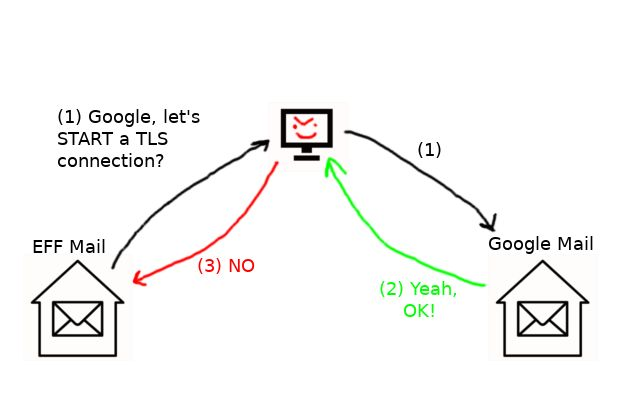
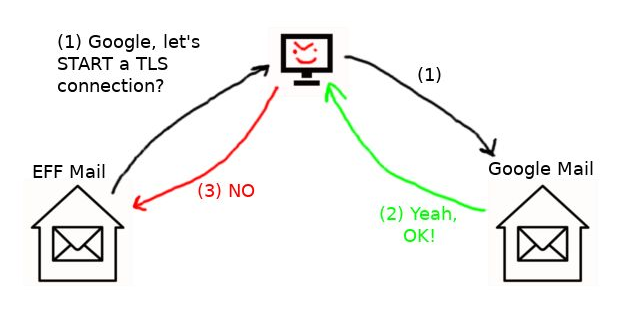
FAQ page cleanup (#200)
* Convert all FAQs to markdown

* Fix typos in FAQ

* Crop whitespace from FAQ images

* Tweak list style

* Fix typo

diff --git a/sass/base.scss b/sass/base.scss
@@ -123,7 +123,7 @@ ol {
   margin-left: 3em;
   padding: 0 0 2rem;
   li {
-    min-height: 3rem;
+    margin-bottom: 1rem;
     padding-left: 0.5rem;
     position: relative;
     &:before {

diff --git a/content/faq/insecure.md b/content/faq/insecure.md
@@ -8,9 +8,9 @@ level: learn
 
 As mentioned in the <a href="#how" class="how">previous section</a>, your email goes through multiple hops! Each of these hops have to be secure and authenticated for your email to reliably be delivered securely.
 
-<img src="/images/how-email-insecure.png" alt="how is email insecure diagram">
+![how is email insecure diagram](/images/how-email-insecure.png)
 
-<h3>Passive monitoring</h3>
+### Passive monitoring
 
 Typically, Internet traffic between two computers is secured using [Transport Layer Security](https://ssd.eff.org/pt-br/taxonomy/term/361). Since your email goes through multiple hops, if any of the hops it goes through are insecure, then your email is visible to anyone on the same network. This is referred to as “passive monitoring.” For example, if hop (1) is unencrypted, [anyone on your WiFi network](https://www.eff.org/deeplinks/2010/10/message-firesheep-baaaad-websites-implement) can read the email your sending!
 
@@ -18,26 +18,28 @@ For hops (1) and (3), you’ll want to make sure the connection between your ema
 
 For hop (2), you’ll want to make sure both your mailserver and the destination mailserver support “STARTTLS,” or TLS for email — you can use [our STARTTLS checker](/) to do this!
 
-<h3>Active monitoring</h3>
-<img src="/images/active-monitoring.png" alt="active monitoring diagram">
+### Active monitoring
 
-Although we depicted each individual connection as a single “hop,” beneath the surface, there are many computers along the path of each “hop” that help you get to your final destination. One of these computers on the path between you and <em>gmail.com</em> could lie to you and impersonate gmail.com. This is referred to as “active monitoring” — where an attacker on the path can impersonate your destination, and then monitor the email you’re sending.
+![active monitoring diagram](/images/active-monitoring.png)
 
-In order to verify that you really are talking to gmail.com, the computer that you’re connected to typically presents a <em>certificate</em> — that is, signatures from various authorities on the Internet that confirm that this computer is gmail.com.
+Although we depicted each individual connection as a single “hop,” beneath the surface, there are many computers along the path of each “hop” that help you get to your final destination. One of these computers on the path between you and *gmail.com* could lie to you and impersonate gmail.com. This is referred to as “active monitoring” — where an attacker on the path can impersonate your destination, and then monitor the email you’re sending.
+
+In order to verify that you really are talking to gmail.com, the computer that you’re connected to typically presents a *certificate* — that is, signatures from various authorities on the Internet that confirm that this computer is gmail.com.
 
 For hops (1) and (3), if you’re using a webmail client through your browser, you’ll want to check for a “green lock” next to the URL bar, in addition to HTTPS, to make sure you really are talking to the correct computer!
 
-For hop (2), you’ll want to make sure both your mailserver and the destination mailserver support “STARTTLS” <strong>and</strong> present a <em>valid certificate</em>. Again, you can use [our STARTTLS checker](/) to do this!
+For hop (2), you’ll want to make sure both your mailserver and the destination mailserver support “STARTTLS” **and** present a *valid certificate*. Again, you can use [our STARTTLS checker](/) to do this!
 
-<h3>Downgrade attacks</h3>
+### Downgrade attacks
 
-<img src="/images/downgrade-attacks.png" alt="downgrade attacks diagram">
+![downgrade attacks diagram](/images/downgrade-attacks.png)
 
 This section only applies to hop (2). Suppose Gmail and EFF’s mailservers want to deliver mail to each other. As we mentioned previously, TLS is supported over email! Unfortunately, not all mailservers support TLS, so before sending each other mail, they ask each other:
-    <blockquote>
-    EFF: Hey, let’s START a TLS connection?
-    Gmail: Yeah, ok!
-    </blockquote>
+
+**EFF**: Hey, let’s START a TLS connection?
+
+**Gmail**: Yeah, ok!
+
 After which they would proceed by encrypting any further communication. Unfortunately, this first "negotiation" phase is sent in-the-clear, so any computer on the network between Gmail and EFF— for instance, an ISP— can alter this traffic. As a result, a machine in the middle can simply drop EFF’s request, or alter Gmail’s response to indicate that they don’t support TLS. This is typically referred to as a “downgrade attack”.
 
 In 2014, researchers discovered that governments were [actually doing this](https://zakird.com/papers/mail.pdf). For instance, in Tunisia, 94% of email being sent to Gmail was sent in-the-clear.

diff --git a/content/faq/what-checker.md b/content/faq/what-checker.md
@@ -6,50 +6,25 @@ weight: 6
 level: secure
 ---
 
-<h4><a href="/">This tool</a> checks whether your email domain…</h4>
+#### [This tool](/) checks whether your email domain…
 
-<!--- TODO: use data/checks.yml to populate the below. -->
+#### Supports STARTTLS?
 
-<h4>Supports STARTTLS?</h4>
-<ul>
-<li>
-“STARTTLS” is the command an email server sends if it wants to encrypt communications (using Transport Layer Security or “TLS”) with another email server. If your server supports STARTTLS, that means any other server that supports STARTTLS can communicate securely with it.
-</li>
-<li>
-Does your email server send the STARTTLS command correctly, and does it accept the STARTTLS command from other servers?
-</li>
-</ul>
+-   “STARTTLS” is the command an email server sends if it wants to encrypt communications (using Transport Layer Security or “TLS”) with another email server. If your server supports STARTTLS, that means any other server that supports STARTTLS can communicate securely with it.
+-   Does your email server send the STARTTLS command correctly, and does it accept the STARTTLS command from other servers?
 
-<h4>Uses a secure version of TLS?
-</h4>
-<ul>
-<li>
-TLS has changed many times over the years. Researchers have discovered security flaws in some older versions, named “SSLv2” and “SSLv3”, so technologists across the Internet are <a href="http://disablessl3.com/" target="_blank">working to deprecate</a> SSLv2/3.
-</li>
-<li>
-Does your email server disallow establishing a valid TLS connection over SSLv2/3?
-</li>
-</ul>
+#### Uses a secure version of TLS?
 
-<h4>Presents a valid certificate?
-</h4>
-<ul>
-<li>
-Even if you *think* you’re talking to a service named “eff.org”, it could be an impersonator pretending to be “eff.org”. Checking a mail server’s certificate helps ensure that you really are talking to the actual service.
-</li>
-<li>
-In order for your certificate to be valid for your email domain, it should be unexpired, chain to a valid root from <a href="https://wiki.mozilla.org/CA/Included_Certificates" target="_blank">Mozilla’s CA certificates list</a>, and one of the names on the certificate should either match the domain (the part of an email address after the @) or the server’s hostname (the name of the server, as indicated by an MX record).
-</li>
-</ul>
+-   TLS has changed many times over the years. Researchers have discovered security flaws in some older versions, named “SSLv2” and “SSLv3”, so technologists across the Internet are [working to deprecate](http://disablessl3.com/) SSLv2/3.
+-   Does your email server disallow establishing a valid TLS connection over SSLv2/3?
 
-<h4>
-Preloaded on our STARTTLS policy list?
-</h4>
-<ul>
-<li>
-Even if you pass the above checks, someone sitting between your server and other mailservers can choose to drop “STARTTLS” messages and fool servers into thinking that you do not support TLS.
-</li>
-<li>
-To prevent this from happening, if you pass all the previous checks, you can add your domain to our index of high-security email domains so servers have another point of reference to discover that you support STARTTLS encryption.
-</li>
-</ul>
+#### Presents a valid certificate?
+
+-   Even if you *think* you’re talking to a service named “eff.org”, it could be an impersonator pretending to be “eff.org”. Checking a mail server’s certificate helps ensure that you really are talking to the actual service.
+-   In order for your certificate to be valid for your email domain, it should be unexpired, chain to a valid root from [Mozilla’s CA certificates list](https://wiki.mozilla.org/CA/Included_Certificates), and one of the names on the certificate should either match the domain (the part of an email address after the @) or the server’s hostname (the name of the server, as indicated by an MX record).
+
+#### Preloaded on our STARTTLS policy list?
+
+-   Even if you pass the above checks, someone sitting between your server and other mailservers can choose to drop “STARTTLS” messages and fool servers into thinking that you do not support TLS.
+-   To prevent this from happening, if you pass all the previous checks, you can add your domain to our index of high-security email domains so servers have another point of reference to discover that you support STARTTLS encryption.
+

diff --git a/content/faq/downgrades.md b/content/faq/downgrades.md
@@ -10,14 +10,14 @@ Since STARTTLS negotiation is done in the open, the process of upgrading an emai
 
 #### DANE
 
-DANE, or [DNS-based Authentication of Named Entities](https://tools.ietf.org/html/rfc7672) relies on DNSSEC, a protocol for publishing and authenticating signed DNS entries. Mailserver operators would sign their MX records with DNSSEC, and publish a record alongside them containing the public key that the mailserver is expected to use in TLS. So long as senders trust the DNSSEC signature chain, senders can discover both 1) whether to expect a STARTTLS connection, and 2) how to validate the recipient's certificate. Full DANE deployment presents a scalable solution for mailservers to clarify certificate validation rules and prevent downgrade attacks. However, DANE is dependent on deployment and validation of DNSSEC, and which has has unfortunately [remained stagnant](https://www.internetsociety.org/deploy360/dnssec/statistics/) (validation is at around 10-15% worldwide) for the past five years.
+DANE, or [DNS-based Authentication of Named Entities](https://tools.ietf.org/html/rfc7672) relies on DNSSEC, a protocol for publishing and authenticating signed DNS entries. Mailserver operators would sign their MX records with DNSSEC and publish a record alongside them containing the public key that the mailserver is expected to use in TLS. So long as senders trust the DNSSEC signature chain, senders can discover both 1) whether to expect a STARTTLS connection, and 2) how to validate the recipient's certificate. Full DANE deployment presents a scalable solution for mailservers to clarify certificate validation rules and prevent downgrade attacks. However, DANE is dependent on deployment and validation of DNSSEC, which has unfortunately [remained stagnant](https://www.internetsociety.org/deploy360/dnssec/statistics/) (validation is at around 10-15% worldwide) for the past five years.
 
 The Internet Society has a [good explanation and list of related resources](https://www.internetsociety.org/resources/deploy360/dane/) if you're interested in deploying both DNSSEC and DANE.
 
 #### MTA-STS
 
-[MTA-STS](https://datatracker.ietf.org/doc/draft-ietf-uta-mta-sts/) is an upcoming protocol for advertising your mailserver's security policy. Mailserver operators are expected to 1) publish a DNS record indicating MTA-STS support, and 2) serve a JSON file describing their security policy over HTTPS at a `.well-known` address. Without DNSSEC to authenticate the related DNS record, MTA-STS is still a trust-on-first-use protocol, similar to [HSTS](https://tools.ietf.org/html/rfc6797) for the web. It's in last call at the IETF, so few MTA software have implemented it so far.
+[MTA-STS](https://datatracker.ietf.org/doc/draft-ietf-uta-mta-sts/) is an upcoming protocol for advertising your mailserver's security policy. Mailserver operators are expected to 1) publish a DNS record indicating MTA-STS support, and 2) serve a JSON file describing their security policy over HTTPS at a `.well-known` address. Without DNSSEC to authenticate the related DNS record, MTA-STS is still a trust-on-first-use protocol, similar to [HSTS](https://tools.ietf.org/html/rfc6797) for the web. It's in last call at the IETF, so few MTAs have implemented it so far.
 
 #### STARTTLS Policy List
 
-The [STARTTLS Policy List's](/policy-list) aim is to decouple secure email from DNSSEC adoption with a stop-gap, intermediate solution to secure email delivery *today* rather than later. Once a protocol like MTA-STS starts to gain adoption, the list may optional indicate whether a domain supports MTA-STS, rather than the full policy of a domain.
+The [STARTTLS Policy List's](/policy-list) aim is to decouple secure email from DNSSEC adoption with a stop-gap, intermediate solution to secure email delivery *today* rather than later. Once a protocol like MTA-STS starts to gain adoption, the list may optionally indicate whether a domain supports MTA-STS, rather than the full policy of a domain.

diff --git a/content/faq/how-can.md b/content/faq/how-can.md
@@ -6,19 +6,23 @@ weight: 7
 level: secure
 ---
 
-<h4>Do you have STARTTLS enabled?</h4>
-First thing's first: consult your mailserver's documentation or contact your hosting provider about how to enable STARTTLS for your mail delivery?
+#### Do you have STARTTLS enabled?
 
-<h4>Are your TLS parameters secure?</h4>
+First thing's first: consult your mailserver's documentation or contact your hosting provider about how to enable STARTTLS for your mail delivery.
+
+#### Are your TLS parameters secure?
+
 There's a tradeoff in the mailserver world you'll need to make between backwards-compatibility (so you can encrypt with as many mailservers as possible) and requiring strong security. Here are some various things we recommend you do to make your mailserver robust, while still allowing it to encrypt with modern mailservers.
 
-   - [Disable SSLv2/SSLv3](https://disablessl3.com)
-   - [Deploy perfect forward secrecy correctly](https://weakdh.org/sysadmin.html).
+   - [Disable SSLv2/SSLv3.](https://disablessl3.com)
+   - [Deploy perfect forward secrecy correctly.](https://weakdh.org/sysadmin.html)
 
-<h4>Is your certificate valid?</h4>
+#### Is your certificate valid?
+
 Standard practice is to obtain a certificate matching the hostname of the mailserver. However, you can also obtain a certificate matching your email domain (the part of the email address after the @) for a stronger security guarantee.
 
 You can obtain a valid certificate automatically and for free from [Let's Encrypt](https://letsencrypt.org) using [Certbot](https://certbot.eff.org)! Consult your mailserver documentation or contact your hosting provider for how to install these certificates.
 
-<h4>Do you have some sort of downgrade prevention?</h4>
+#### Do you have some sort of downgrade prevention?
+
 If you already meet all the above requirements, you can add your domain to the [STARTTLS Policy List](/policy-list) to [protect against downgrade attacks](/faq#downgrades).

diff --git a/content/faq/e2e.md b/content/faq/e2e.md
@@ -6,4 +6,4 @@ weight: 3
 level: learn
 ---
 
-No, STARTTLS only secures communication between mailservers (hop 2 in this figure). Even if each of your hops are secured and encrypted, your email provider, like Gmail and Yahoo, can still read your email. If you’ve heard of PGP, PGP encryption can provide end-to-end encryption for you, although it can be difficult to use. If you want to take advantage of all the benefits of end-to-end encrypted messaging, check out our series on <a href="https://www.eff.org/deeplinks/2018/03/secure-messaging-more-secure-mess" target="_blank">Secure Messaging</a>.
+No, STARTTLS only secures communication between mailservers (hop 2 in this figure). Even if each of your hops are secured and encrypted, your email provider, like Gmail and Yahoo, can still read your email. If you’ve heard of PGP, PGP encryption can provide end-to-end encryption for you, although it can be difficult to use. If you want to take advantage of all the benefits of end-to-end encrypted messaging, check out our series on [Secure Messaging](https://www.eff.org/deeplinks/2018/03/secure-messaging-more-secure-mess).

diff --git a/content/faq/how.md b/content/faq/how.md
@@ -11,10 +11,13 @@ Let’s say you have an email address @gmail.com. You open your email client, wh
 
 Then you draft an email to your friend, who has an email address @eff.org. What happens when you press “SEND”?
 
-<img src="/images/how-email-works.png">
+![](/images/how-email-works.png)
 
-<ol>
-<li> Your email is sent to and queued for delivery at Gmail’s email servers.</li>
- <li> Then, Gmail transmits your email to EFF’s email servers, where the email stays and waits until your friend opens their own mail client.</li>
-<li>Your friend’s mail client then asks EFF’s mail server whether they have any outstanding mail, and EFF transmits the relevant messages to your friends computer.</li>
-</ol>
+1.  Your email is sent to and queued for delivery at Gmail’s email
+    servers.
+2.  Then, Gmail transmits your email to EFF’s email servers, where the
+    email stays and waits until your friend opens their own mail client.
+3.  Your friend’s mail client then asks EFF’s mail server whether they
+    have any outstanding mail, and EFF transmits the relevant messages
+    to your friends computer.
+
